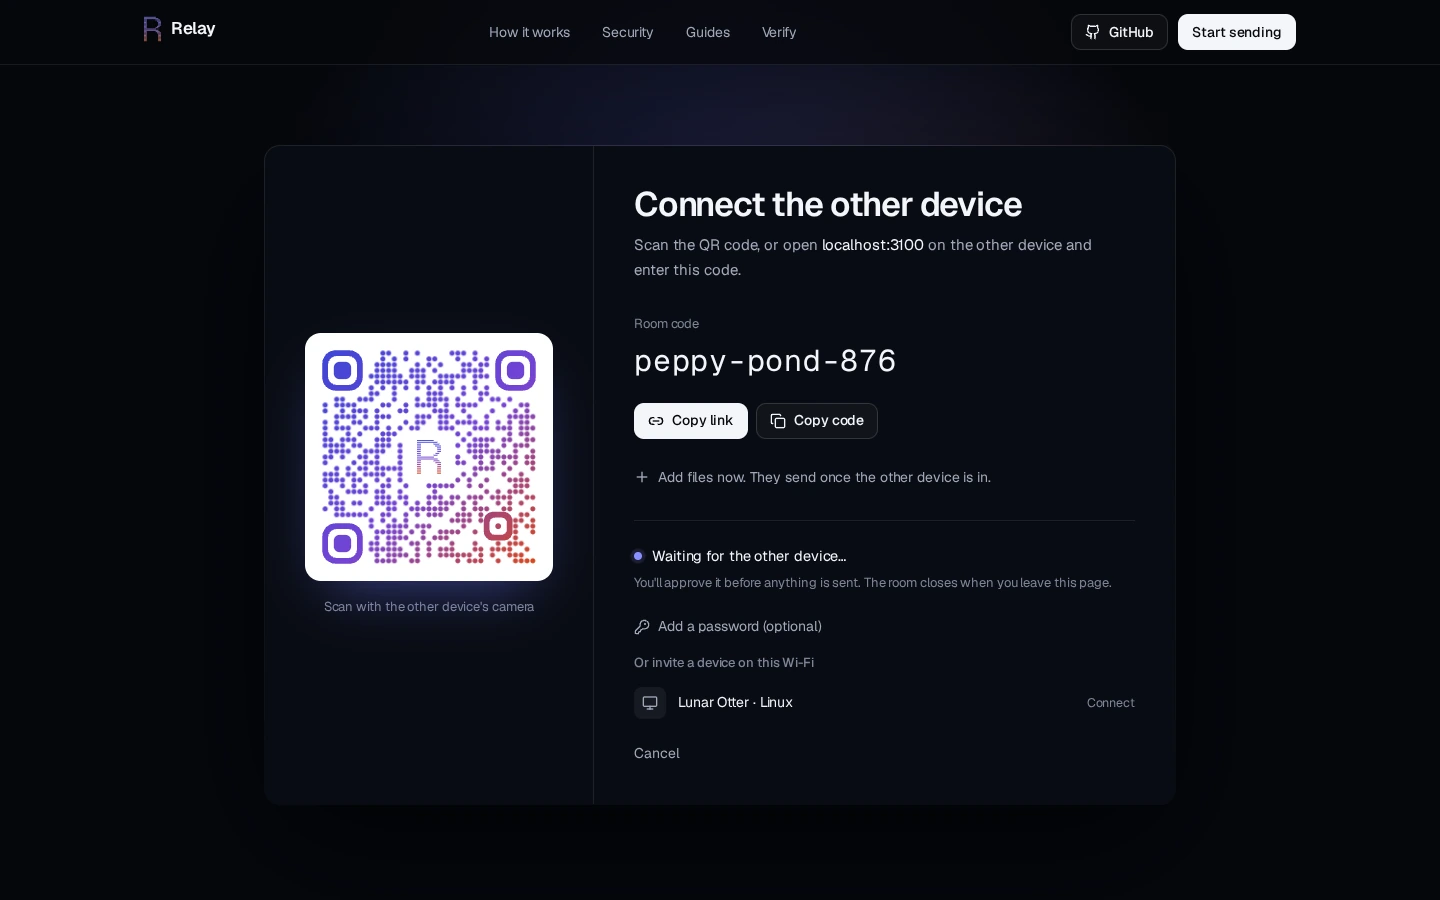
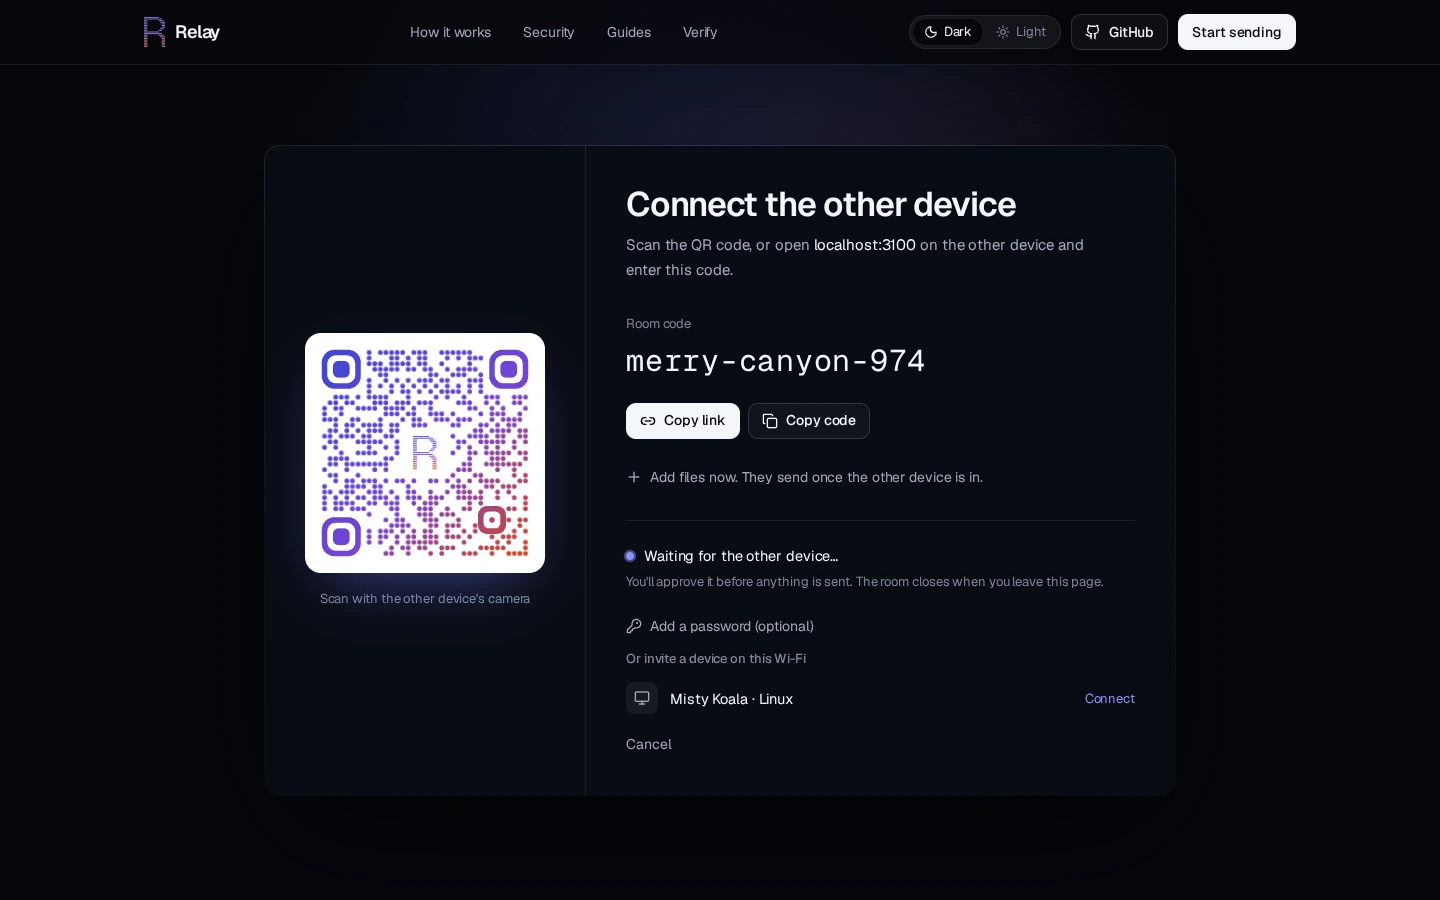
docs: show both designs in the README and refresh screenshots

diff --git a/README.md b/README.md
@@ -63,13 +63,18 @@ Relay is a web app that sends files **straight from one device to another** over
 
 **App**
 - Installable PWA with **Share to Relay** from the Android share sheet
+- Two designs, **Dark** and **Light**, with a switch in the header (or link straight to one with `?design=light`)
 - While connected, both devices' marks are joined by a stream of light that follows live speed (WebGL2)
 - Self-hostable: one Node.js server or one Docker container
 
 <table>
 <tr>
-<td><img src="docs/screenshots/landing.webp" alt="Relay home page"></td>
+<td><img src="docs/screenshots/landing.webp" alt="Relay home page, dark design"></td>
+<td><img src="docs/screenshots/landing-light.webp" alt="Relay home page, light design"></td>
+</tr>
+<tr>
 <td><img src="docs/screenshots/approval.webp" alt="Approving a device with its safety number"></td>
+<td><img src="docs/screenshots/transfer.webp" alt="A transfer in progress, with live speed"></td>
 </tr>
 <tr>
 <td><img src="docs/screenshots/lobby.webp" alt="Room code and QR code"></td>
